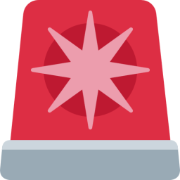
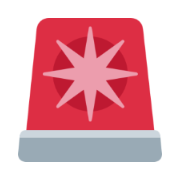
New manifest

diff --git a/index.html b/index.html
@@ -3,12 +3,14 @@
 
 <head>
   <meta charset="UTF-8" name="viewport" content="width=device-width, initial-scale=1">
-  <link rel="apple-touch-icon" sizes="180x180" href="apple-touch-icon.png">
-  <link rel="icon" type="image/png" sizes="32x32" href="favicon_io/favicon-32x32.png">
-  <link rel="icon" type="image/png" sizes="16x16" href="favicon_io/favicon-16x16.png">
-  <link rel="manifest" href="favicon_io/site.webmanifest">
-  <link rel="icon" href="favicon.ico" />
-
+  
+  <link rel="icon" type="image/png" href="/favicon-96x96.png" sizes="96x96" />
+  <link rel="icon" type="image/svg+xml" href="/favicon.svg" />
+  <link rel="shortcut icon" href="/favicon.ico" />
+  <link rel="apple-touch-icon" sizes="180x180" href="/apple-touch-icon.png" />
+  <meta name="apple-mobile-web-app-title" content="EMtools" />
+  <link rel="manifest" href="/site.webmanifest" />
+  
   <title>EMtools</title>
   <style>
     body {
